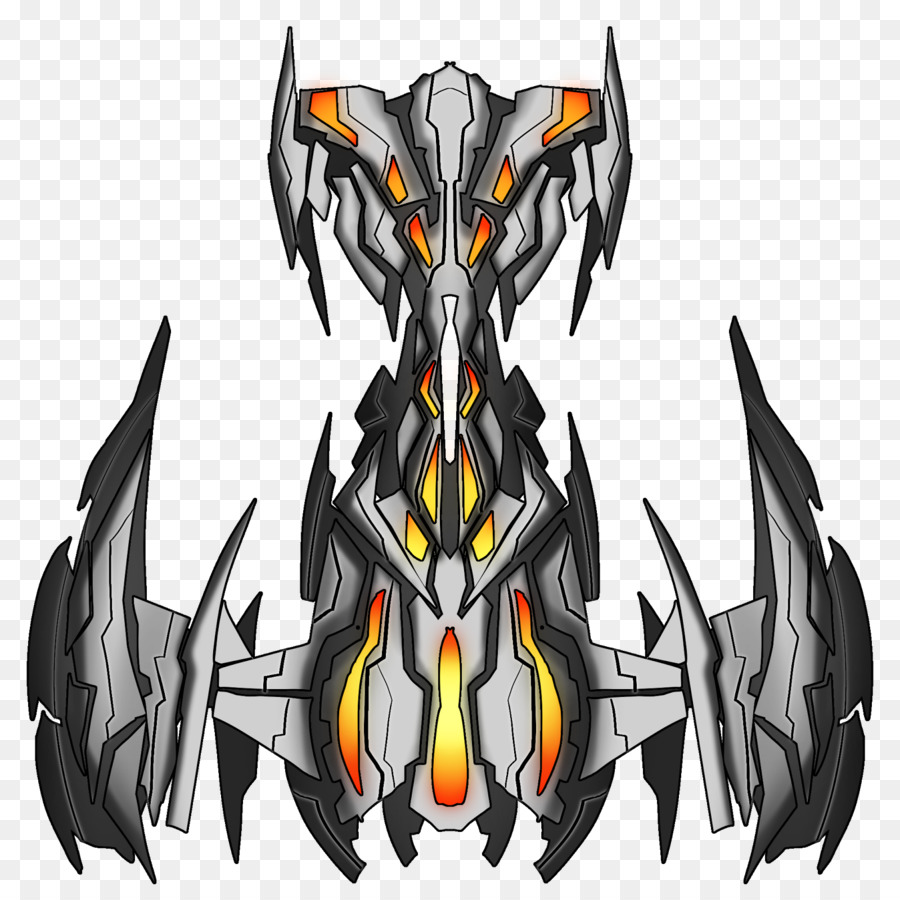
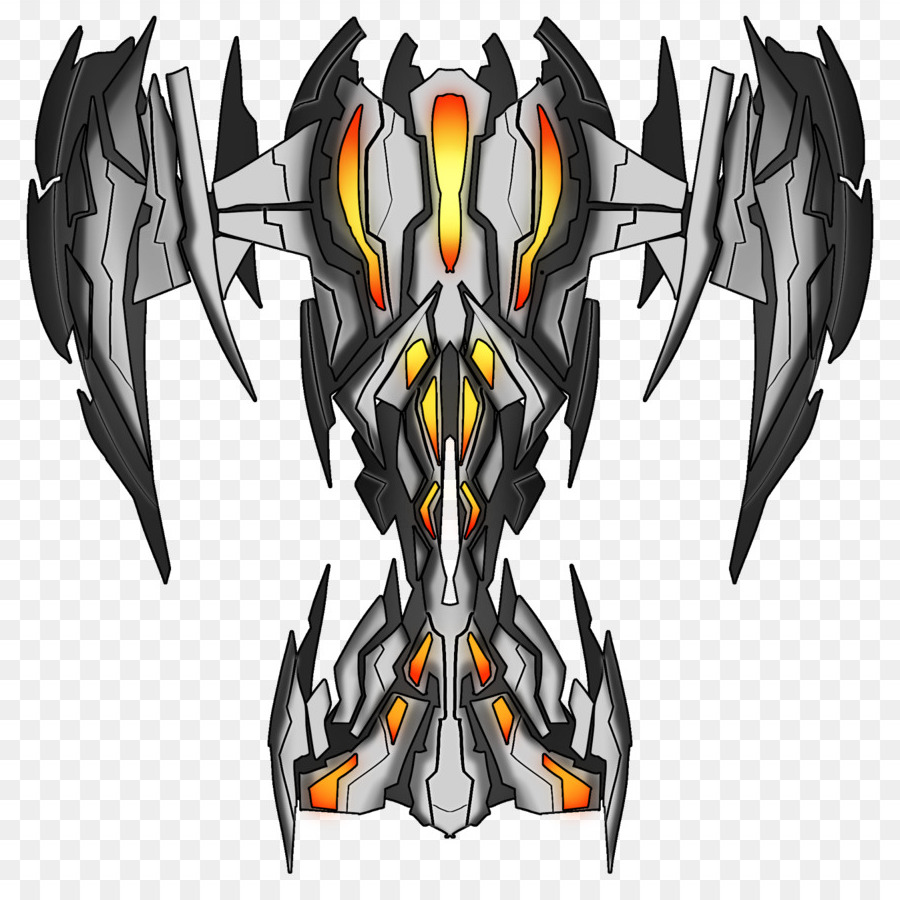
added movement abstraction, bug fixes, flipped whitebird

diff --git a/src/game/enemy/Whitebird.js b/src/game/enemy/Whitebird.js
@@ -1,7 +1,8 @@
+import defaults from '../../constants/whitebird.json';
+import whitebirdImg from '../../assets/images/whitebird.png';
 import {Enemy} from './Enemy';
 import {getPosition, getRandomInt} from '../utilities';
-import whitebirdImg from '../../assets/images/whitebird.png';
-import defaults from '../../constants/whitebird.json';
+import * as Motion from '../../utils/movement';
 
 export class Whitebird extends Enemy {
   constructor(game, props) {
@@ -11,39 +12,42 @@ export class Whitebird extends Enemy {
       ...defaults,
     };
 
+    // attributes
+    this.item = attr.item;
+    this.hp = attr.hp;
+
+    // image
+    this.img = new Image();
+    this.img.src = whitebirdImg;
+
+    //size
+    this.h = 67;
+    this.w = 67;
+    this.r = this.w / 2.1;
+
+    // position
+    this.x = attr.x
+    this.y = attr.y
+
     // specs
     this.tracking = attr.tracking;
     this.contain = attr.contain;
     this.spin = attr.spin;
-    this.item = attr.item;
-    this.h = 67;
-    this.w = 67;
-    this.r = this.w / 2.1;
-    this.weaponSpeed = game.getVelocity() * 4;
-    this.weaponType = attr.weaponType;
-    // this.weaponDelay = attr.weaponDelay;
-    this.weaponDelay = 1000;
-    this.hp = attr.hp;
+    this.motion = attr.movement;
 
-    this.img = new Image();
-    this.img.src = whitebirdImg;
+    // weapons
+    this.weaponDelay = attr.weaponDelay;
+    this.weaponSpeed = game.getVelocity() * attr.weaponSpeed;
+    this.weaponType = attr.weaponType;
+
+    // behavior
+    // TODO: make this one scriptable behavior
     this.shoot();
     this.movement();
   }
 
   movement() {
-    // TODO: set X position based on config setting
-    this.x = getRandomInt(this.canvas.width * 0.1, this.canvas.width * 0.9);
-    // TODO: set Y poisiont based on config setting
-    this.y = -this.h;
-    this.vy = this.game.getVelocity() * 8;
-    this.g = -0.05;
-    // arc left vs arc right based on entrance position
-    if (this.x >= this.canvas.width / 2) {
-      this.vx = 1;
-    } else {
-      this.vx = -1;
-    }
+    Motion.parabolic(this);
   }
 
   draw() {

diff --git a/src/game/enemy/Blackbird.js b/src/game/enemy/Blackbird.js
@@ -1,7 +1,8 @@
-import {Enemy} from './Enemy';
-import {getPosition, getRandomInt} from '../utilities';
 import blackbird from '../../assets/images/blackbird.png';
 import defaults from '../../constants/blackbird.json';
+import {Enemy} from './Enemy';
+import {getPosition} from '../utilities';
+import * as Motion from '../../utils/movement';
 
 export class Blackbird extends Enemy {
   constructor(game, props) {
@@ -12,7 +13,7 @@ export class Blackbird extends Enemy {
     };
 
     // attributes
-    this.hp = 10;
+    this.hp = attr.hp;
     this.item = attr.item;
 
     // image
@@ -25,39 +26,33 @@ export class Blackbird extends Enemy {
     this.r = this.w / 2.1;
 
     // position
+    this.x = attr.x
+    this.y = attr.y
 
     // specs
     this.tracking = attr.tracking;
     this.contain = attr.contain;
     this.spin = attr.spin;
+    this.motion = attr.movement;
 
-    // this.vy = game.getVelocity() * 8 * 2 / 3;
-
-    this.weaponDelay = 1000;
+    // weapons
+    this.weaponDelay = attr.weaponDelay;
     this.weaponSpeed = game.getVelocity() * attr.weaponSpeed;
     this.weaponType = 'ball';
 
+    // behavior
+    // TODO: make this one scriptable behavior
     this.shoot();
     this.movement();
   }
 
   movement() {
-    // TODO: set X position based on config setting
-    this.x = getRandomInt(this.canvas.width * 0.1, this.canvas.width * 0.9);
-    // TODO: set Y poisiont based on config setting
-    this.y = -this.h;
-    this.vy = this.game.getVelocity() * 8;
-    this.g = -0.05;
-    // arc left vs arc right based on entrance position
-    if (this.x >= this.canvas.width / 2) {
-      this.vx = 1;
-    } else {
-      this.vx = -1;
-    }
+    Motion.charge(this);
   }
 
   draw() {
-    this.vy += this.g;
+    this.vx += this.gx;
+    this.vy += this.gy;
     this.y += this.vy;
     this.x += this.vx;
 

diff --git a/src/game/enemy/Enemy.js b/src/game/enemy/Enemy.js
@@ -1,6 +1,6 @@
 import retroShotBlaster from '../../assets/music/retro-shot-blaster.mp3';
 import {Ball} from '../bullets/Ball';
-import {getPosition, getDistance, isOnScreen} from '../utilities';
+import {getPosition, getDistance, isOnScreen, shouldFire} from '../utilities';
 // import {radian} from '../Game';
 
 export class Enemy {
@@ -24,7 +24,7 @@ export class Enemy {
   }
 
   setWeaponDelay() {
-    if (this.hp > 0 || isOnScreen(this)) {
+    if (this.hp > 0 && shouldFire(this)) {
       const pew = new Audio(retroShotBlaster);
       pew.play();
       const bullet = new Ball(this.game, this);
@@ -41,7 +41,7 @@ export class Enemy {
   shoot() {
     const firing = setInterval(() => {
       this.setWeaponDelay()
-      if (this.hp <= 0 || !isOnScreen(this)) {
+      if (this.hp <= 0 || !shouldFire(this)) {
         clearInterval(firing);
       }
     }, this.weaponDelay);

diff --git a/src/game/utilities.js b/src/game/utilities.js
@@ -1,4 +1,4 @@
-import {HEIGHT} from "..";
+import {WIDTH} from "..";
 
 export const getRandomInt = (min, max) => {
   min = Math.ceil(min);
@@ -9,10 +9,18 @@ export const getRandomInt = (min, max) => {
 export const isOnScreen = (object) => {
   const {x, y, w, h} = object;
   const vertical = y > -h && y < window.innerHeight + h;
-  const horizontal = x > -w && x < HEIGHT + w;
+  const horizontal = x > 0 - w && x < WIDTH + w;
   const onScreen = vertical && horizontal;
   return onScreen;
 };
+
+export const shouldFire = (object) => {
+  const {x, y, w, h} = object;
+  const vertical = y > 0 && y < window.innerHeight;
+  const horizontal = x > 0 && x < WIDTH;
+  const shouldFire = vertical && horizontal;
+  return shouldFire;
+}
 
 export const getPosition = (object) => {
   const x = object.x;

diff --git a/src/utils/movement.js b/src/utils/movement.js
@@ -1,0 +1,28 @@
+import {HEIGHT, WIDTH} from "..";
+import {getRandomInt} from "../game/utilities";
+
+export const charge = (obj) => {
+  obj.vy = obj.game.getVelocity() * 8;
+  obj.vx = 0;
+  obj.gy = 0;
+  obj.gx = 0;
+  setTimeout(() => {
+    obj.vy = 0;
+  }, 700);
+  setTimeout(() => {
+    obj.gx = obj.x < WIDTH / 2
+      ? -0.5
+      : 0.5;
+  }, 1400);
+}
+
+export const parabolic = (obj) => {
+  obj.vy = obj.game.getVelocity() * 8;
+  obj.g = -0.05;
+  // arc left vs arc right based on entrance position
+  if (obj.x >= obj.canvas.width / 2) {
+    obj.vx = 1;
+  } else {
+    obj.vx = -1;
+  }
+}

diff --git a/src/game/bullets/BulletFactory.js b/src/game/bullets/BulletFactory.js
@@ -1,6 +1,6 @@
-import { Spread } from './Spread';
-import { Blaster } from './Blaster';
-import { isOnScreen } from '../utilities';
+import {Spread} from './Spread';
+import {Blaster} from './Blaster';
+import {isOnScreen} from '../utilities';
 
 const playerOffset = 2.5;
 export class BulletFactory {
@@ -175,5 +175,6 @@ export class BulletFactory {
     }
   }
 
-  generateEnemyBullets(interval) {}
+  // Looks like this was deprecated
+  // generateEnemyBullets(interval) {}
 }

diff --git a/README.md b/README.md
@@ -13,10 +13,10 @@ Because this game is still in dev, players are immune from bullets for testing p
 
 - [ ] Code cleanup / utilities overhaul
 - [x] Fix spread shot
-- [ ] Create toml parsing for EnemyFactory data
-- [ ] Make EnemyFactory JSON-configurable
-- [ ] Add abstraction for enemey movement types
-- [ ] Add abstraction for enemy position locations
+- [x] Create toml parsing for EnemyFactory data
+- [x] Make EnemyFactory JSON-configurable
+- [x] Add abstraction for enemey movement types
+- [x] Add abstraction for enemy position locations
 - [ ] Add sprinkler enemy
 - [ ] Add bullet collision for player
 - [ ] Add abstraction for stages
@@ -25,6 +25,7 @@ Because this game is still in dev, players are immune from bullets for testing p
 - [ ] Add player missiles
 - [ ] Create dynamic web portal (small: 67%, large: 100%)
 - [ ] Create window size detection
+- [ ] Create Game Menu / Main Menu options
 - [ ] Mobile controls? (probably not...)
 
 ## Point logic
